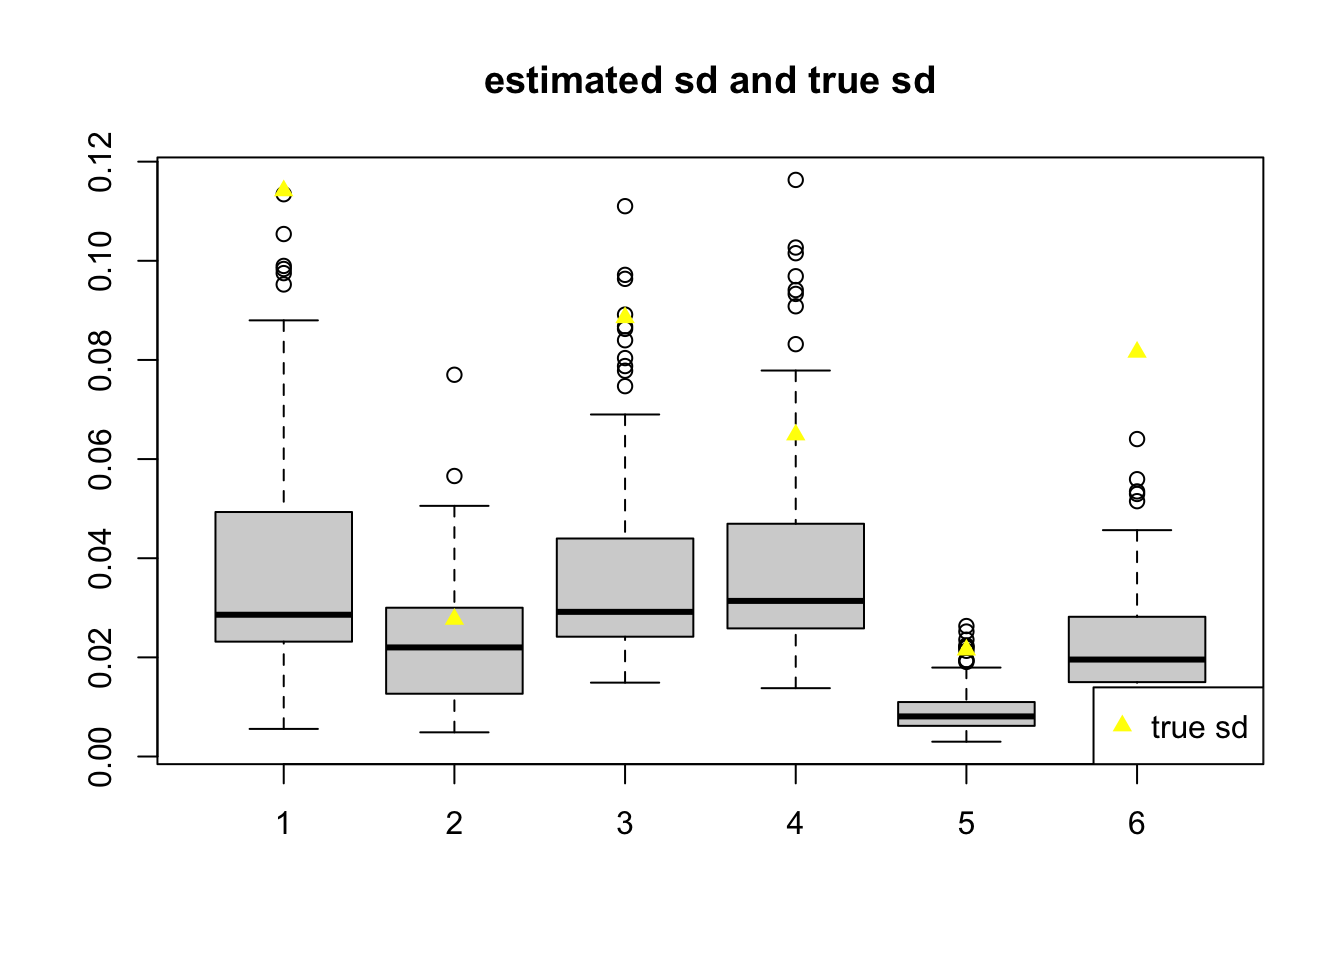
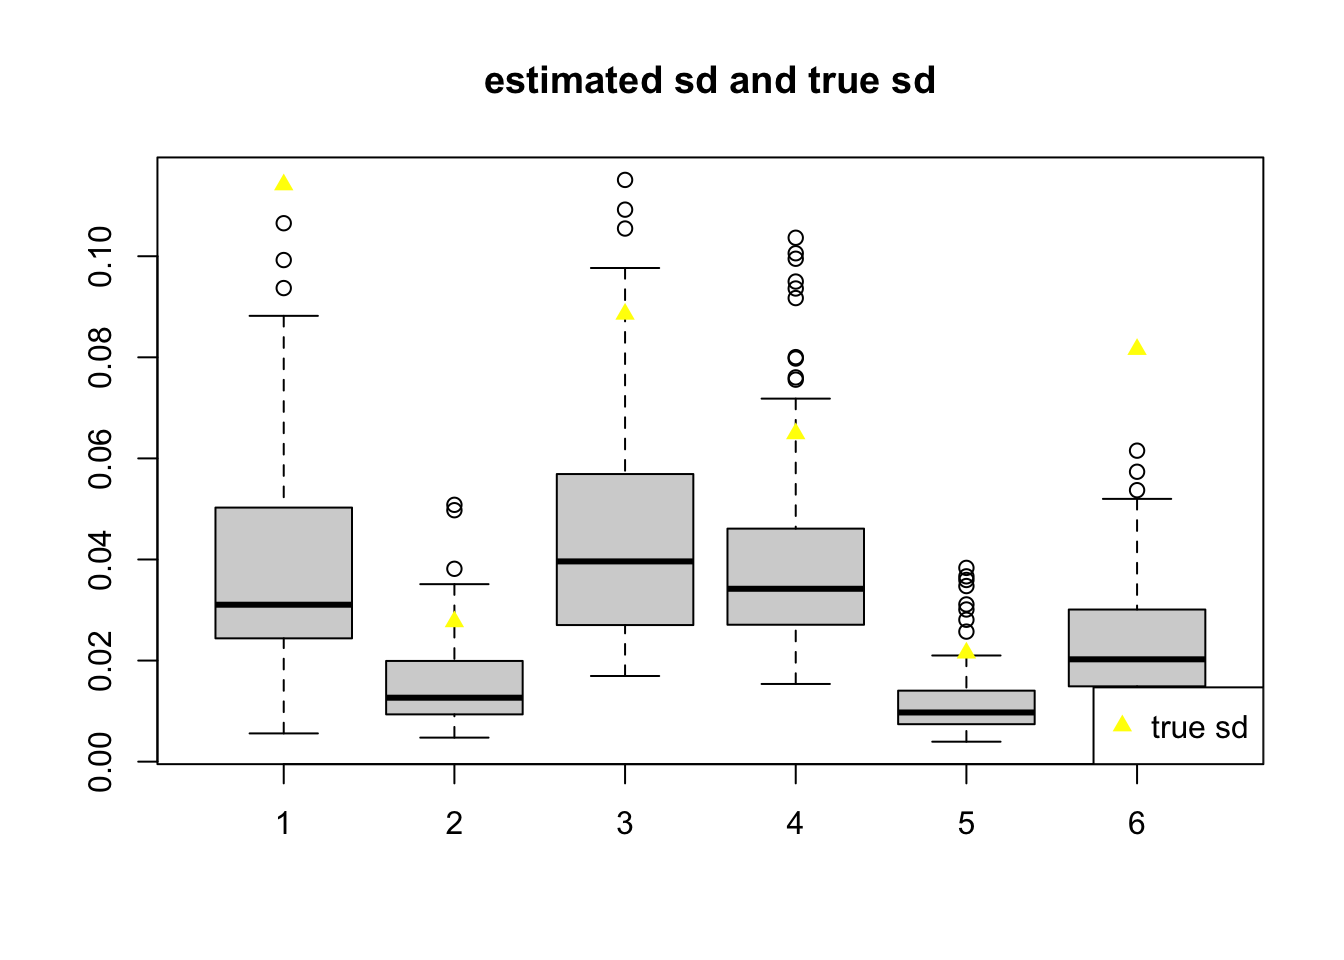
Build site.

diff --git a/docs/check_coverage_adding_weights_neuron_real2.html b/docs/check_coverage_adding_weights_neuron_real2.html
@@ -424,7 +424,7 @@ div.tocify {
 <div class="tab-content">
 <div id="summary" class="tab-pane fade in active">
 <p>
-<strong>Last updated:</strong> 2021-09-15
+<strong>Last updated:</strong> 2021-09-23
 </p>
 <p>
 <strong>Checks:</strong> <span class="glyphicon glyphicon-ok text-success" aria-hidden="true"></span> 7 <span class="glyphicon glyphicon-exclamation-sign text-danger" aria-hidden="true"></span> 0
@@ -515,16 +515,16 @@ This reproducible <a href="http://rmarkdown.rstudio.com">R Markdown</a> analysis
 <div class="panel panel-default">
 <div class="panel-heading">
 <p class="panel-title">
-<a data-toggle="collapse" data-parent="#workflowr-checks" href="#strongRepositoryversionstrongahrefhttpsgithubcomDongyueXiedeconferencetreec78951b36de5e601af78fe8904170c1525c59aactargetblankc78951ba"> <span class="glyphicon glyphicon-ok text-success" aria-hidden="true"></span> <strong>Repository version:</strong> <a href="https://github.com/DongyueXie/deconference/tree/c78951b36de5e601af78fe8904170c1525c59aac" target="_blank">c78951b</a> </a>
+<a data-toggle="collapse" data-parent="#workflowr-checks" href="#strongRepositoryversionstrongahrefhttpsgithubcomDongyueXiedeconferencetree39b982e7c2741243781ca685e9734908576905f0targetblank39b982ea"> <span class="glyphicon glyphicon-ok text-success" aria-hidden="true"></span> <strong>Repository version:</strong> <a href="https://github.com/DongyueXie/deconference/tree/39b982e7c2741243781ca685e9734908576905f0" target="_blank">39b982e</a> </a>
 </p>
 </div>
[2 lines of base64/hex data omitted]
 <div class="panel-body">
 <p>
 Great! You are using Git for version control. Tracking code development and connecting the code version to the results is critical for reproducibility.
 </p>
 <p>
-The results in this page were generated with repository version <a href="https://github.com/DongyueXie/deconference/tree/c78951b36de5e601af78fe8904170c1525c59aac" target="_blank">c78951b</a>. See the <em>Past versions</em> tab to see a history of the changes made to the R Markdown and HTML files.
+The results in this page were generated with repository version <a href="https://github.com/DongyueXie/deconference/tree/39b982e7c2741243781ca685e9734908576905f0" target="_blank">39b982e</a>. See the <em>Past versions</em> tab to see a history of the changes made to the R Markdown and HTML files.
 </p>
 <p>
 Note that you need to be careful to ensure that all relevant files for the analysis have been committed to Git prior to generating the results (you can use <code>wflow_publish</code> or <code>wflow_git_commit</code>). workflowr only checks the R Markdown file, but you know if there are other scripts or data files that it depends on. Below is the status of the Git repository when the results were generated:
@@ -534,7 +534,6 @@ Ignored files:
     Ignored:    .DS_Store
     Ignored:    .Rhistory
     Ignored:    .Rproj.user/
-    Ignored:    analysis/figure/
     Ignored:    data/.DS_Store
     Ignored:    output/.DS_Store
 
@@ -631,6 +630,40 @@ Message
 </tr>
 </thead>
 <tbody>
+<tr>
+<td>
+Rmd
+</td>
+<td>
+<a href="https://github.com/DongyueXie/deconference/blob/39b982e7c2741243781ca685e9734908576905f0/analysis/check_coverage_adding_weights_neuron_real2.Rmd" target="_blank">39b982e</a>
+</td>
+<td>
+Dongyue Xie
+</td>
+<td>
+2021-09-23
+</td>
+<td>
+wflow_publish(“analysis/check_coverage_adding_weights_neuron_real2.Rmd”)
+</td>
+</tr>
+<tr>
+<td>
+html
+</td>
+<td>
+<a href="https://rawcdn.githack.com/DongyueXie/deconference/7bf982da7fe0d6a91666f55dba59c0513379c34d/docs/check_coverage_adding_weights_neuron_real2.html" target="_blank">7bf982d</a>
+</td>
+<td>
+Dongyue Xie
+</td>
+<td>
+2021-09-15
+</td>
+<td>
+Build site.
+</td>
+</tr>
 <tr>
 <td>
 Rmd
@@ -806,6 +839,8 @@ rownames(y) = gene_names
 cor.idx = readRDS(&#39;data/neuron/gene12400_cor_idx_alpha005.rds&#39;)
 dim(cor.idx)</code></pre>
 <pre><code>[1] 25653118        2</code></pre>
+<pre class="r"><code>R01 = sparseMatrix(i = cor.idx[,1],j = cor.idx[,2],dims = c(G,G))
+diag(R01) = 1</code></pre>
 <pre class="r"><code>summary_temp = function(fit,b,true.beta){
   boxplot(t(fit$p_hat_se),ylim = range(c(fit$p_hat_se,apply(fit$p_hat,1,sd,na.rm=T)),na.rm = T),
         main = &#39;estimated sd and true sd&#39;)
@@ -1375,6 +1410,17 @@ Date
 <tbody>
 <tr>
 <td>
+<a href="https://github.com/DongyueXie/deconference/blob/7bf982da7fe0d6a91666f55dba59c0513379c34d/docs/figure/check_coverage_adding_weights_neuron_real2.Rmd/unnamed-chunk-19-1.png" target="_blank">7bf982d</a>
+</td>
+<td>
+Dongyue Xie
+</td>
+<td>
+2021-09-15
+</td>
+</tr>
+<tr>
+<td>
 <a href="https://github.com/DongyueXie/deconference/blob/f6d44e191e155b182512f5914434538c2f84d786/docs/figure/check_coverage_adding_weights_neuron_real2.Rmd/unnamed-chunk-19-1.png" target="_blank">f6d44e1</a>
 </td>
 <td>
@@ -1461,6 +1507,17 @@ Date
 <tbody>
 <tr>
 <td>
+<a href="https://github.com/DongyueXie/deconference/blob/7bf982da7fe0d6a91666f55dba59c0513379c34d/docs/figure/check_coverage_adding_weights_neuron_real2.Rmd/unnamed-chunk-21-1.png" target="_blank">7bf982d</a>
+</td>
+<td>
+Dongyue Xie
+</td>
+<td>
+2021-09-15
+</td>
+</tr>
+<tr>
+<td>
 <a href="https://github.com/DongyueXie/deconference/blob/f6d44e191e155b182512f5914434538c2f84d786/docs/figure/check_coverage_adding_weights_neuron_real2.Rmd/unnamed-chunk-21-1.png" target="_blank">f6d44e1</a>
 </td>
 <td>
@@ -1507,7 +1564,7 @@ table(folds01)</code></pre>
 # fit$folds = folds01
 # saveRDS(fit,file=&#39;output/check_coverage_weight_neuron/11ref_jackknife_kmedoids01_20folds_alpha005.rds&#39;)
 
-fit = readRDS(&#39;output/check_coverage_weight_neuron/11ref_jackknife_kmedoids_20folds_alpha005.rds&#39;)
+fit = readRDS(&#39;output/check_coverage_weight_neuron/11ref_jackknife_kmedoids01_20folds_alpha005.rds&#39;)
 
 summary_temp(fit,b,true.beta)</code></pre>
 <p><img src="figure/check_coverage_adding_weights_neuron_real2.Rmd/unnamed-chunk-23-1.png" width="672" style="display: block; margin: auto;" /></p>
@@ -1535,6 +1592,17 @@ Date
 <tbody>
 <tr>
 <td>
+<a href="https://github.com/DongyueXie/deconference/blob/7bf982da7fe0d6a91666f55dba59c0513379c34d/docs/figure/check_coverage_adding_weights_neuron_real2.Rmd/unnamed-chunk-23-1.png" target="_blank">7bf982d</a>
+</td>
+<td>
+Dongyue Xie
+</td>
+<td>
+2021-09-15
+</td>
+</tr>
+<tr>
+<td>
 <a href="https://github.com/DongyueXie/deconference/blob/f6d44e191e155b182512f5914434538c2f84d786/docs/figure/check_coverage_adding_weights_neuron_real2.Rmd/unnamed-chunk-23-1.png" target="_blank">f6d44e1</a>
 </td>
 <td>
@@ -1548,13 +1616,13 @@ Dongyue Xie
 </table>
 </div>
 </div>
-<pre><code>coverage p:[1] 0.407 0.767 0.419 0.686 0.593 0.465
+<pre><code>coverage p:[1] 0.465 0.640 0.500 0.686 0.674 0.465
 folds
    1    2    3    4    5    6    7    8    9   10   11   12   13   14   15   16 
- 587  445  836  482 1290  668  734  499  393  278  334  664  554 1014  775  724 
+ 271 4218   64  844 5412   37  158  233  351   37   44   78  286   73   55  117 
   17   18   19   20 
- 522  675  593  333 
-coverage beta:[1] 0.407 0.779 0.442 0.640 0.593 0.465</code></pre>
+  43   20   39   20 
+coverage beta:[1] 0.453 0.628 0.488 0.663 0.651 0.512</code></pre>
 <p>try new method to get <span class="math inline">\(\hat\beta\)</span>.</p>
 <pre class="r"><code># fit = estimation_func2(y=y,X=X,Vg=V,
 #                        w=w,hc.type=&#39;jackknife3&#39;,correction=FALSE,
@@ -1572,8 +1640,9 @@ coverage beta:[1] 0.407 0.779 0.442 0.640 0.593 0.465</code></pre>
 
 # fit = readRDS(&#39;output/check_coverage_weight_neuron/11ref_jackknife_kmedoids01_20folds_littlecor_alpha005.rds&#39;)
 
+# folds01 = fit$folds
 # fit = estimation_func2(y=y,X=X,Vg=V,
-#                        w=w,hc.type=&#39;jackknife4&#39;,correction=FALSE,
+#                        w=w,hc.type=&#39;jackknife_indep&#39;,correction=FALSE,
 #                                              calc_cov=F,verbose=T,
 #                                              cor.idx=cor.idx,
 #                                              centeringXY=F,
@@ -1588,13 +1657,50 @@ coverage beta:[1] 0.407 0.779 0.442 0.640 0.593 0.465</code></pre>
 fit = readRDS(&#39;output/check_coverage_weight_neuron/11ref_jackknife_kmedoids01_20folds_rm_cor_alpha005.rds&#39;)
 summary_temp(fit,b,true.beta)</code></pre>
 <p><img src="figure/check_coverage_adding_weights_neuron_real2.Rmd/unnamed-chunk-24-1.png" width="672" style="display: block; margin: auto;" /></p>
-<pre><code>coverage p:[1] 0.640 0.942 0.605 0.788 0.791 0.593
+<p>
+<button type="button" class="btn btn-default btn-xs btn-workflowr btn-workflowr-fig" data-toggle="collapse" data-target="#fig-unnamed-chunk-24-1">
+Past versions of unnamed-chunk-24-1.png
+</button>
+</p>
+<div id="fig-unnamed-chunk-24-1" class="collapse">
+<div class="table-responsive">
+<table class="table table-condensed table-hover">
+<thead>
+<tr>
+<th>
+Version
+</th>
+<th>
+Author
+</th>
+<th>
+Date
+</th>
+</tr>
+</thead>
+<tbody>
+<tr>
+<td>
+<a href="https://github.com/DongyueXie/deconference/blob/7bf982da7fe0d6a91666f55dba59c0513379c34d/docs/figure/check_coverage_adding_weights_neuron_real2.Rmd/unnamed-chunk-24-1.png" target="_blank">7bf982d</a>
+</td>
+<td>
+Dongyue Xie
+</td>
+<td>
+2021-09-15
+</td>
+</tr>
+</tbody>
+</table>
+</div>
+</div>
+<pre><code>coverage p:[1] 0.651 0.826 0.570 0.788 0.779 0.612
 folds
    1    2    3    4    5    6    7    8    9   10   11   12   13   14   15   16 
- 587  445  836  482 1290  668  734  499  393  278  334  664  554 1014  775  724 
+ 271 4218   64  844 5412   37  158  233  351   37   44   78  286   73   55  117 
   17   18   19   20 
- 522  675  593  333 
-coverage beta:[1] 0.640 0.942 0.628 0.776 0.721 0.593</code></pre>
+  43   20   39   20 
+coverage beta:[1] 0.628 0.849 0.570 0.800 0.756 0.612</code></pre>
 <p>new method + only add pos res</p>
 <pre class="r"><code># fit = estimation_func2(y=y,X=X,Vg=V,
 #                        w=w,hc.type=&#39;jackknife3&#39;,correction=FALSE,
@@ -1612,7 +1718,7 @@ coverage beta:[1] 0.640 0.942 0.628 0.776 0.721 0.593</code></pre>
 # fit = readRDS(&#39;output/check_coverage_weight_neuron/11ref_jackknife_kmedoids01_20folds_rm_cor_alpha005_add_pos_res.rds&#39;)
 
 # fit = estimation_func2(y=y,X=X,Vg=V,
-#                        w=w,hc.type=&#39;jackknife4&#39;,correction=FALSE,
+#                        w=w,hc.type=&#39;jackknife_indep&#39;,correction=FALSE,
 #                                              calc_cov=F,verbose=T,
 #                                              cor.idx=cor.idx,
 #                                              centeringXY=F,
@@ -1652,6 +1758,17 @@ Date
 <tbody>
 <tr>
 <td>
+<a href="https://github.com/DongyueXie/deconference/blob/7bf982da7fe0d6a91666f55dba59c0513379c34d/docs/figure/check_coverage_adding_weights_neuron_real2.Rmd/unnamed-chunk-25-1.png" target="_blank">7bf982d</a>
+</td>
+<td>
+Dongyue Xie
+</td>
+<td>
+2021-09-15
+</td>
+</tr>
+<tr>
+<td>
 <a href="https://github.com/DongyueXie/deconference/blob/f6d44e191e155b182512f5914434538c2f84d786/docs/figure/check_coverage_adding_weights_neuron_real2.Rmd/unnamed-chunk-25-1.png" target="_blank">f6d44e1</a>
 </td>
 <td>
@@ -1665,13 +1782,13 @@ Dongyue Xie
 </table>
 </div>
 </div>
-<pre><code>coverage p:[1] 0.814 0.965 0.721 0.907 1.000 0.640
+<pre><code>coverage p:[1] 0.779 0.977 0.674 0.895 1.000 0.674
 folds
    1    2    3    4    5    6    7    8    9   10   11   12   13   14   15   16 
- 587  445  836  482 1290  668  734  499  393  278  334  664  554 1014  775  724 
+ 271 4218   64  844 5412   37  158  233  351   37   44   78  286   73   55  117 
   17   18   19   20 
- 522  675  593  333 
-coverage beta:[1] 0.860 0.977 0.744 0.849 0.953 0.651</code></pre>
+  43   20   39   20 
+coverage beta:[1] 0.826 0.977 0.674 0.849 0.965 0.663</code></pre>
 <p>Now try spectral clustering:</p>
 <p>We will use the correlation matrix as the similarity matrix W. The entries of similarity matrix are non-negative, so we will use the absolute value of correlation matrix. Ww may also try to set negative correlations to 0 later.</p>
 <p>They are other ways to construct similarity matrix: knn graphs, and fully connect graph with Gaussian similarity kernel.</p>
@@ -1699,6 +1816,43 @@ fit = readRDS(&#39;output/check_coverage_weight_neuron/11ref_jackknife_spectral_
 
 summary_temp(fit,b,true.beta)</code></pre>
 <p><img src="figure/check_coverage_adding_weights_neuron_real2.Rmd/unnamed-chunk-27-1.png" width="672" style="display: block; margin: auto;" /></p>
+<p>
+<button type="button" class="btn btn-default btn-xs btn-workflowr btn-workflowr-fig" data-toggle="collapse" data-target="#fig-unnamed-chunk-27-1">
+Past versions of unnamed-chunk-27-1.png
+</button>
+</p>
+<div id="fig-unnamed-chunk-27-1" class="collapse">
+<div class="table-responsive">
+<table class="table table-condensed table-hover">
+<thead>
+<tr>
+<th>
+Version
+</th>
+<th>
+Author
+</th>
+<th>
+Date
+</th>
+</tr>
+</thead>
+<tbody>
+<tr>
+<td>
+<a href="https://github.com/DongyueXie/deconference/blob/7bf982da7fe0d6a91666f55dba59c0513379c34d/docs/figure/check_coverage_adding_weights_neuron_real2.Rmd/unnamed-chunk-27-1.png" target="_blank">7bf982d</a>
+</td>
+<td>
+Dongyue Xie
+</td>
+<td>
+2021-09-15
+</td>
+</tr>
+</tbody>
+</table>
+</div>
+</div>
 <pre><code>coverage p:[1] 1 1 1 1 1 1
 folds
     1     2     3     4     5     6     7     8     9    10 
@@ -1775,6 +1929,43 @@ fit = readRDS(&#39;output/check_coverage_weight_neuron/11ref_jackknife_spectral_
 
 summary_temp(fit,b,true.beta)</code></pre>
 <p><img src="figure/check_coverage_adding_weights_neuron_real2.Rmd/unnamed-chunk-32-1.png" width="672" style="display: block; margin: auto;" /></p>
+<p>
+<button type="button" class="btn btn-default btn-xs btn-workflowr btn-workflowr-fig" data-toggle="collapse" data-target="#fig-unnamed-chunk-32-1">
+Past versions of unnamed-chunk-32-1.png
+</button>
+</p>
+<div id="fig-unnamed-chunk-32-1" class="collapse">
+<div class="table-responsive">
+<table class="table table-condensed table-hover">
+<thead>
+<tr>
+<th>
+Version
+</th>
+<th>
+Author
+</th>
+<th>
+Date
+</th>
+</tr>
+</thead>
+<tbody>
+<tr>
+<td>
+<a href="https://github.com/DongyueXie/deconference/blob/7bf982da7fe0d6a91666f55dba59c0513379c34d/docs/figure/check_coverage_adding_weights_neuron_real2.Rmd/unnamed-chunk-32-1.png" target="_blank">7bf982d</a>
+</td>
+<td>
+Dongyue Xie
+</td>
+<td>
+2021-09-15
+</td>
+</tr>
+</tbody>
+</table>
+</div>
+</div>
 <pre><code>coverage p:[1] 0.442 0.779 0.442 0.674 0.570 0.453
 folds
    1    2    3    4    5    6    7    8    9   10 
